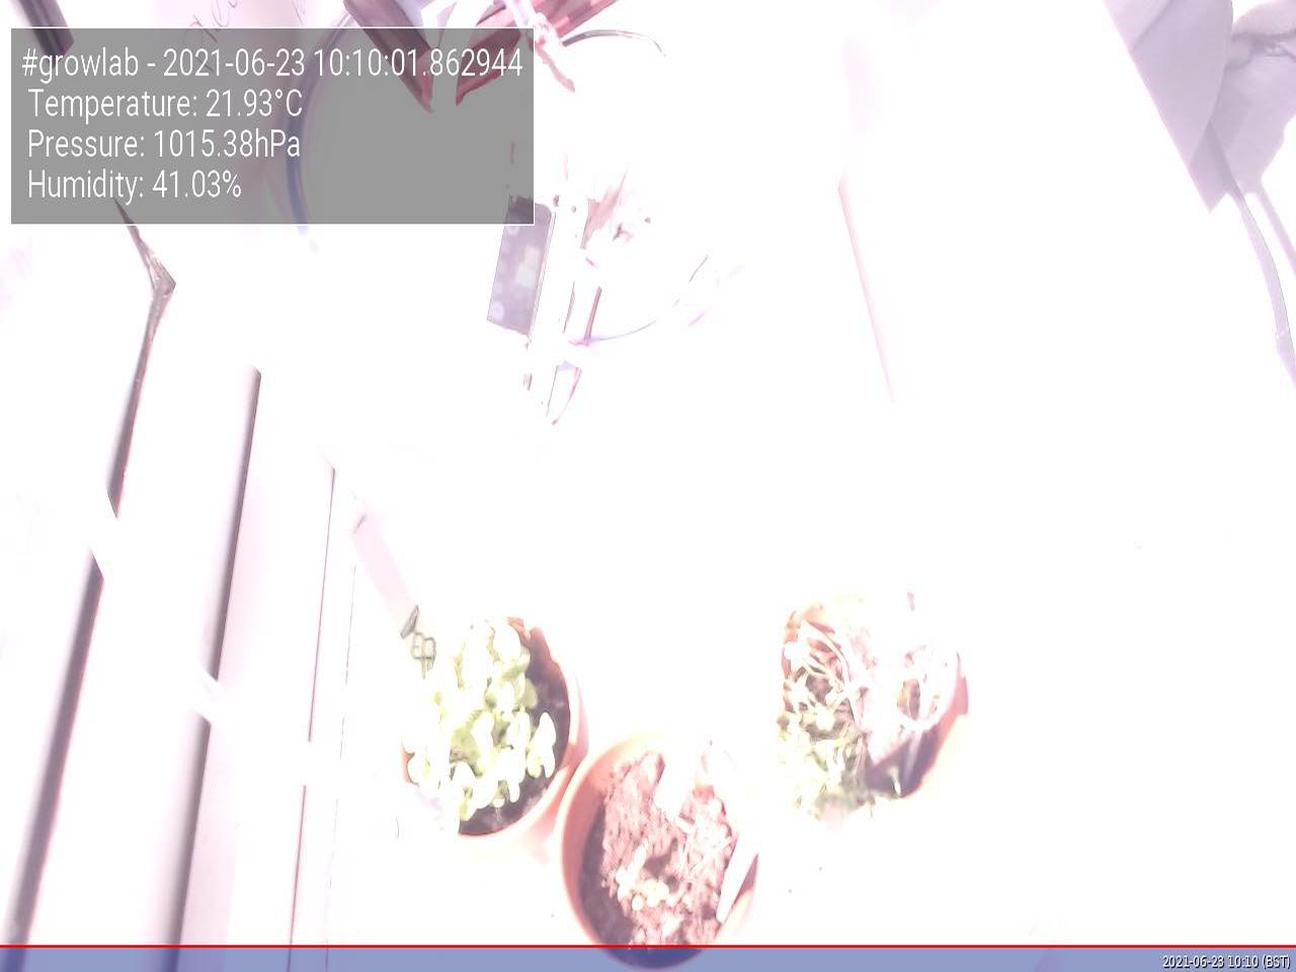
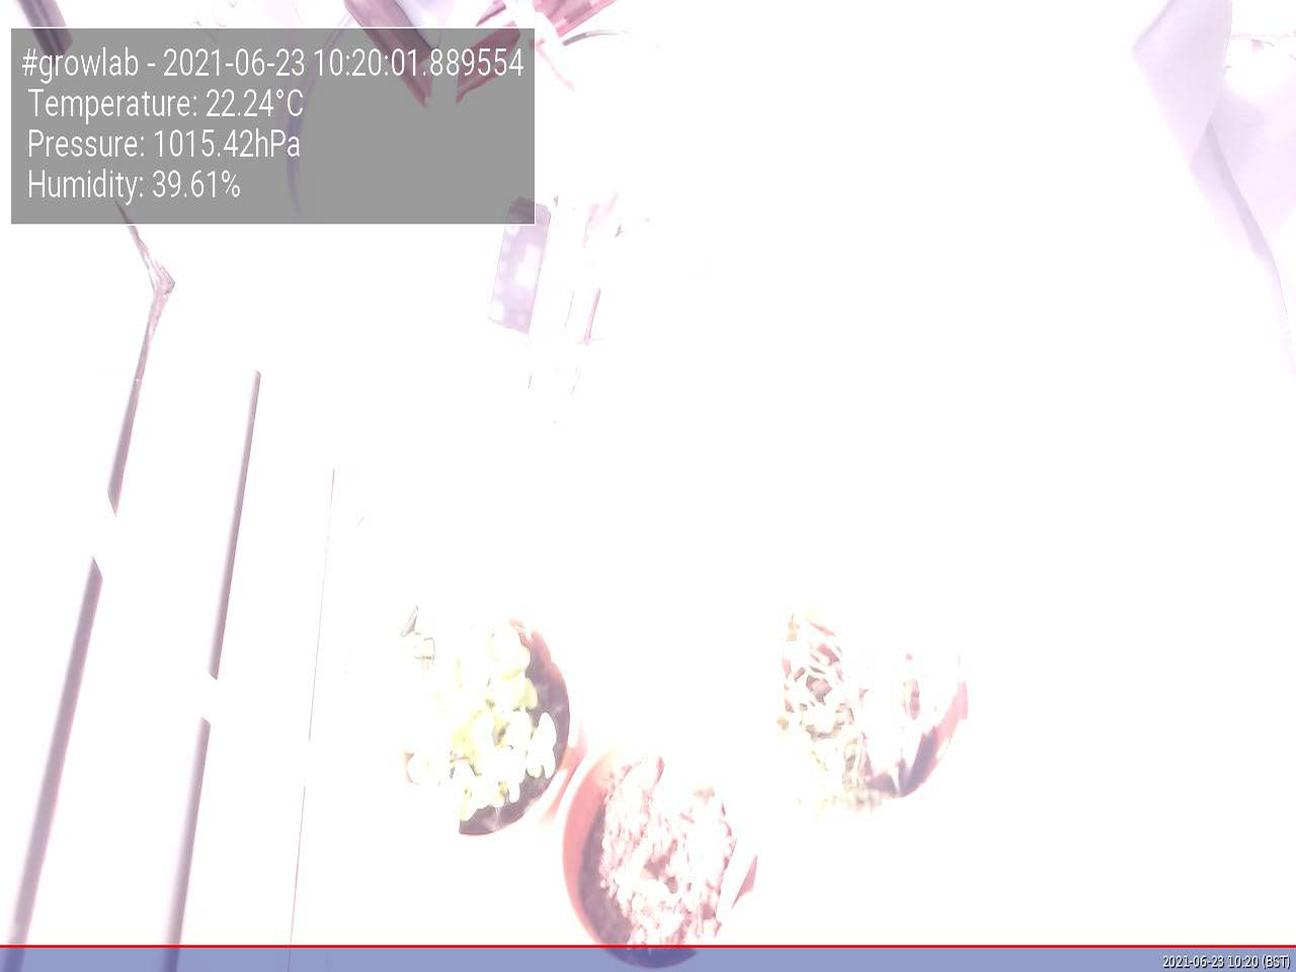
Update images at Wed 23 Jun 10:20:05 BST 2021

diff --git a/app/docs/index.html b/app/docs/index.html
@@ -47,19 +47,19 @@
                         <tbody>
                             <tr>
                                 <td>Time</td>
-                                <td>2021-06-23 10:10:01.862944</td>
+                                <td>2021-06-23 10:20:01.889554</td>
                             </tr>
                             <tr>
                                 <td>Temperature</td>
-                                <td>21.93°C</td>
+                                <td>22.24°C</td>
                             </tr>
                             <tr>
                                 <td>Humidity</td>
-                                <td>41.03%</td>
+                                <td>39.61%</td>
                             </tr>
                             <tr>
                                 <td>Pressure</td>
-                                <td>1015.38hPa</td>
+                                <td>1015.42hPa</td>
                             </tr>
                         </tbody>
                     </table>
@@ -67,7 +67,7 @@
 
                 <h5>Latest image</h5>
                 <div style="width: 85%;">
-                            <img class="figure-img img-fluid rounded" src="./preview.jpg?uid=1624439405.612931">
+                            <img class="figure-img img-fluid rounded" src="./preview.jpg?uid=1624440005.5988498">
                 </div>
             </div>
         </div>
